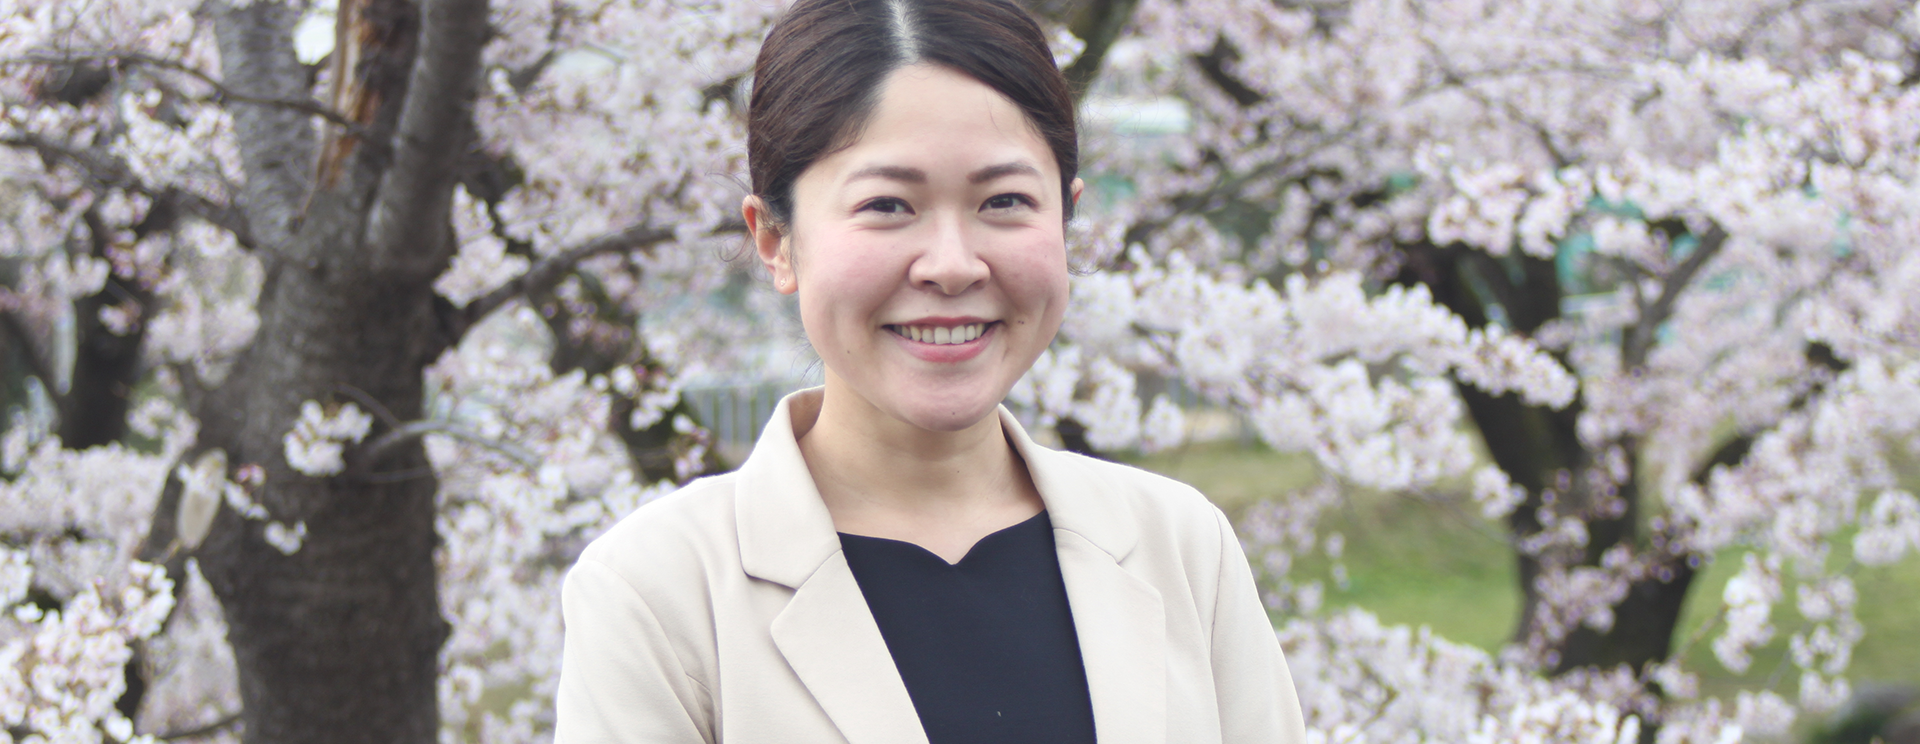
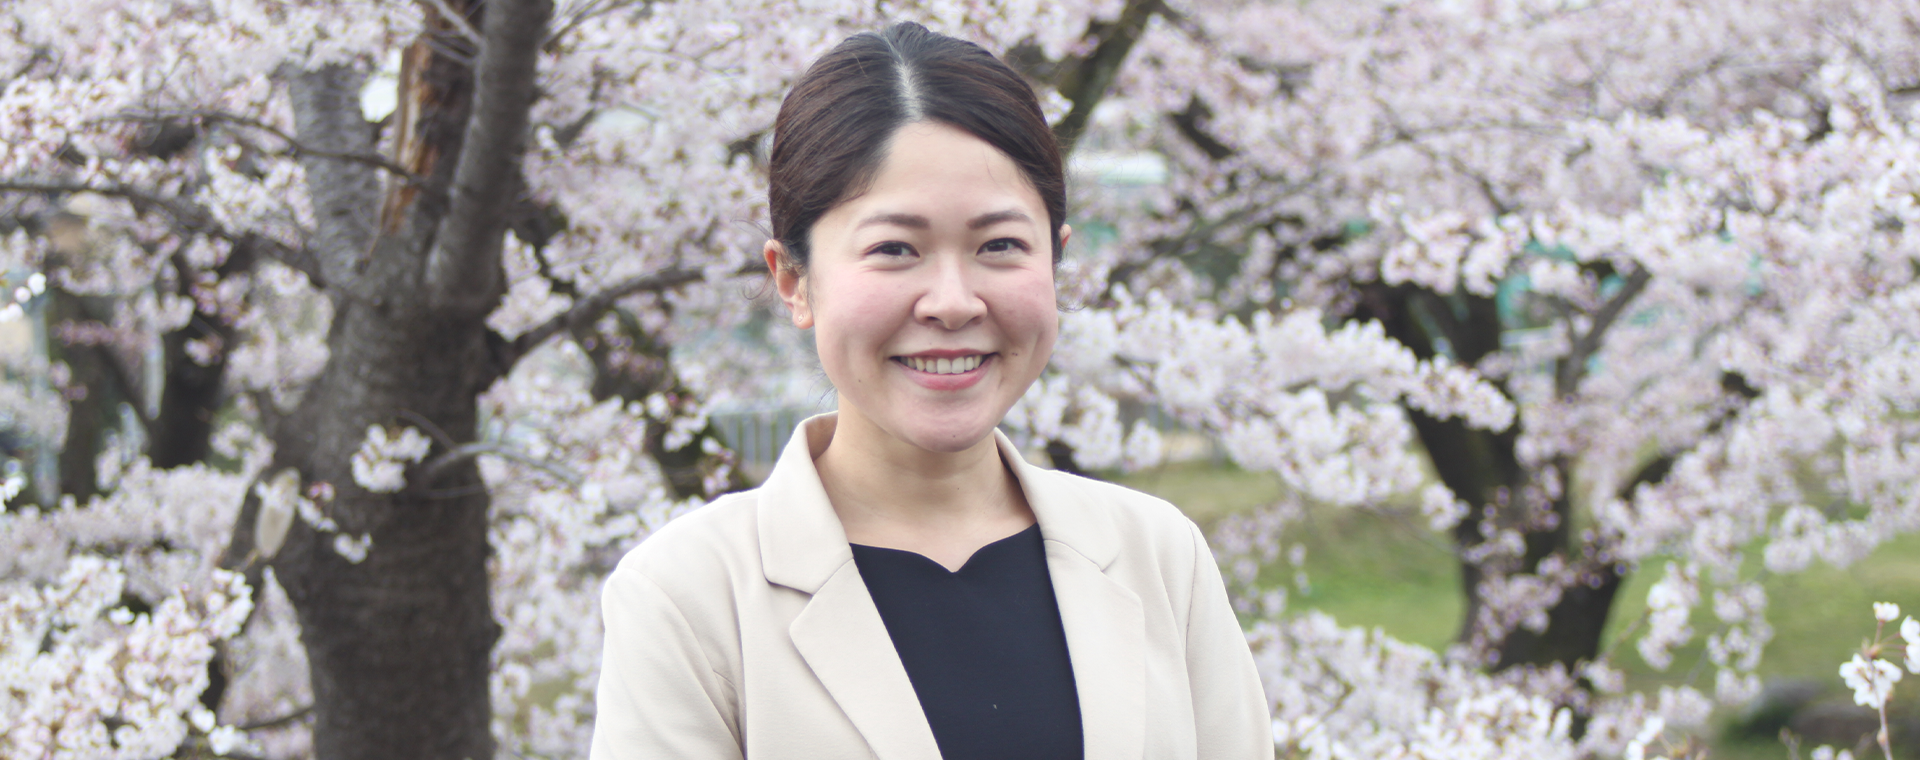
index編集

diff --git a/index.html b/index.html
@@ -10,21 +10,28 @@
 <body>
     <main>
         <section>
+            <div class="top">
             <img src="img/top.png" alt="顔写真">
+            <p class="pp">スマイルトレーナー</p>
+            <p class="ppp">～工藤晴香～</p>
+            </div>
         </section>
-        <section>
-            <img src="img/profil.png" alt="プロフィール写真">
-            <h1>プロフィール</h1>
-            <h2>工藤晴香（くどう　はるか）</h2>
-            <h3>スマイルトレーナーとは？</h3>
-            <p>テキストテキストテキストテキストテキストテキストテキスト
-                テキストテキストテキストテキストテキストテキストテキスト<br>
-            </p>
-            <p>JHMA認定ホスピタリティコーディネータ</p>
-            <p>秘書検定2級</p>
-            <p>専門学校非常勤講師</p>
-            <p>(公財)岩手県生活衛生指導センター　専門アドバイザ</p>
-            <p>(公財)岩手県青少年育成県民会議　講師</p>
+        <section class="profile">
+            <img src="img/profile.png" alt="プロフィール写真">
+            <div class="flex_direction">
+                <h1>プロフィール</h1>
+                <h3>工藤晴香（くどう　はるか）</h3>
+                <h4>スマイルトレーナーとは？</h4>
+                <p>笑顔筋を動かすトレーニング手法のアドバイスをしたり、<br>
+                    笑顔トレーニングの講習会を行なうなど、笑顔教育のスペシャリストとして、<br>
+                    美容・健康維持への役立て方や幅広い利用法等を伝える人。
+                </p>
+                <p>JHMA認定ホスピタリティコーディネータ</p>
+                <p>秘書検定2級</p>
+                <p>専門学校非常勤講師</p>
+                <p>(公財)岩手県生活衛生指導センター　専門アドバイザ</p>
+                <p>(公財)岩手県青少年育成県民会議　講師</p>
+            </div>
         </section>
         <section>
             <h1>実績</h1>

diff --git a/index.css b/index.css
@@ -1,0 +1,26 @@
+#profile img {
+    display: block;
+    margin: auto;
+    text-align: left;
+}
+#profile h1 {
+    color: #F291AB;
+}
+.top{
+    position: relative;
+}
+.top img{
+    width:100%;
+}
+.top p{
+    position: absolute;/*絶対配置*/
+    top: 0;
+    left: 0;
+}
+.profile {
+    display: flex;
+    justify-content: center;
+}
+.flex_direction {
+    flex-direction: column;
+}

diff --git a/base.css b/base.css
@@ -4,7 +4,7 @@ html {
     background-color: #FFF9EC;
 }
 h1 {
-    font-size: 1.7rem;
+    font-size: 2.5rem;
     font-family: "游明朝";
 }
 h2 {
